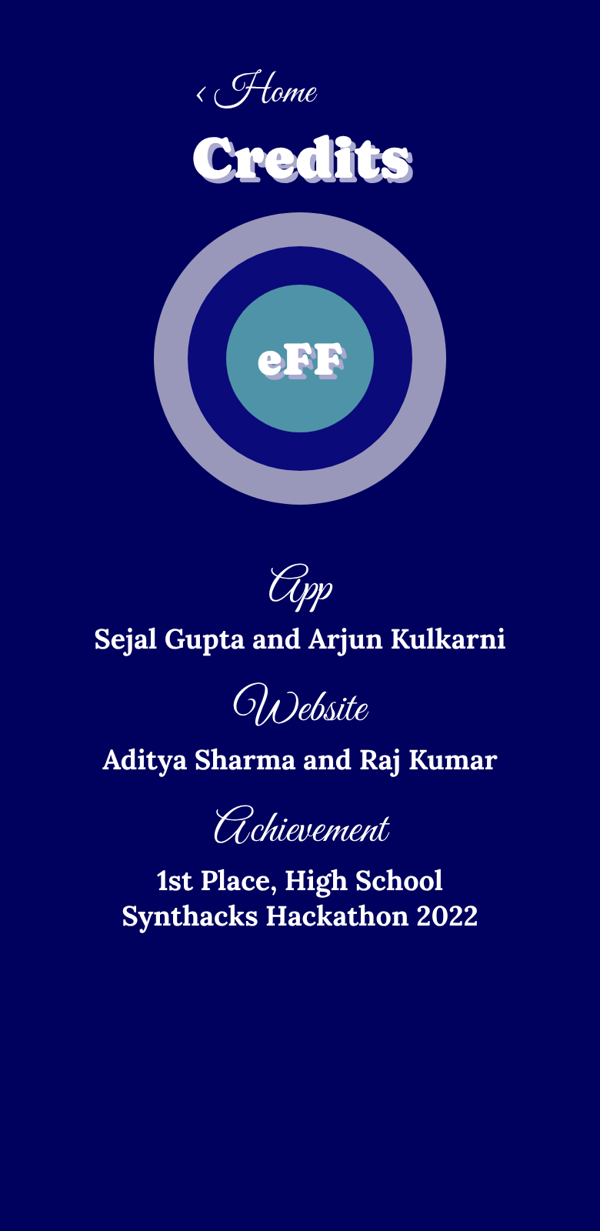
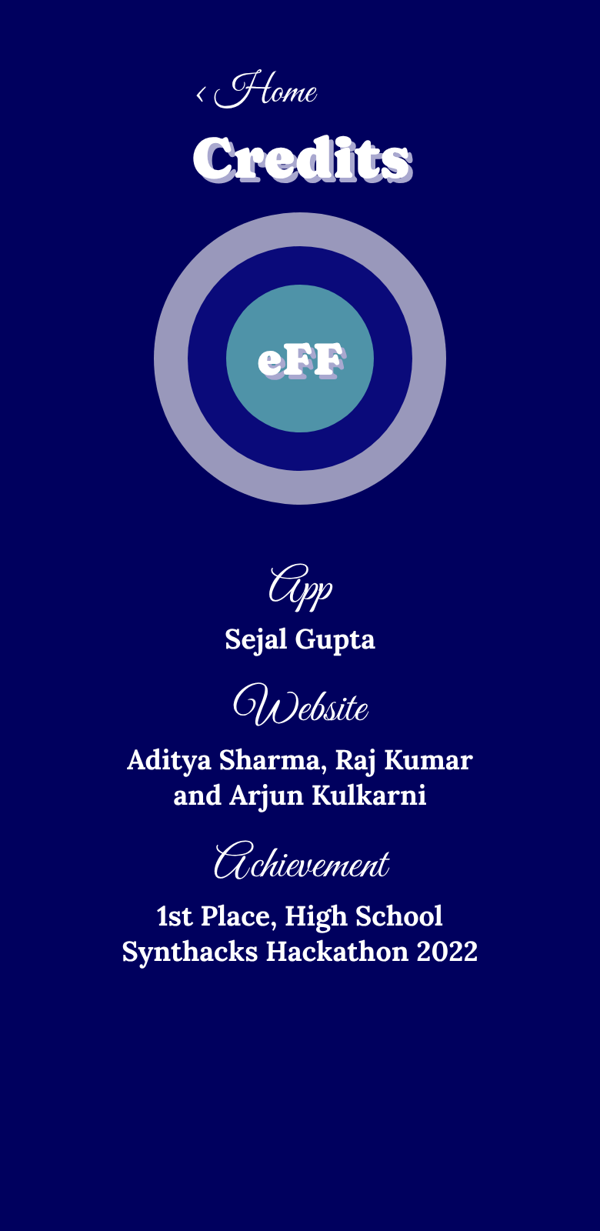
Fix credits: app by Sejal Gupta, website by Aditya Sharma, Raj Kumar and Arjun Kulkarni
Claude-Session: https://claude.ai/code/session_01BSCJCEJkVoj98mS8AJmJj9

Changed region(s): [[0.18, 0.5865, 0.81, 0.8026], [0.15, 0.4939, 0.84, 0.5556]]

diff --git a/screens/Credits.js b/screens/Credits.js
@@ -17,9 +17,9 @@ export default class Credits extends React.Component {
             </View>
           </View>
           <Text style={styles.label}>App</Text>
-          <Text style={styles.names}>Sejal Gupta and Arjun Kulkarni</Text>
+          <Text style={styles.names}>Sejal Gupta</Text>
           <Text style={styles.label}>Website</Text>
-          <Text style={styles.names}>Aditya Sharma and Raj Kumar</Text>
+          <Text style={styles.names}>Aditya Sharma, Raj Kumar{'\n'}and Arjun Kulkarni</Text>
           <Text style={styles.label}>Achievement</Text>
           <Text style={styles.names}>1st Place, High School{'\n'}Synthacks Hackathon 2022</Text>
         </ScrollView>

diff --git a/README.md b/README.md
@@ -37,7 +37,7 @@ This app was built for the Synthacks Hackathon 2022 at Greenwood High Internatio
 - **Study Notes:** an essay planner page with boxes for subject, word count, due date, key points, title, introduction, three body paragraphs and a conclusion.
 - **Focus:** a Pomodoro timer with 25 minute focus sessions and 5 minute breaks, with start, pause and reset, and a count of finished sessions.
 - **Tips:** ten study techniques, including spaced repetition, the Pomodoro technique and PQ4R.
-- **Credits:** names the app and website teams. The app was made by Sejal Gupta and Arjun Kulkarni.
+- **Credits:** names the app and website teams. The app was made by Sejal Gupta. The website was made by Aditya Sharma, Raj Kumar and Arjun Kulkarni.
 
 ## Setup
 
